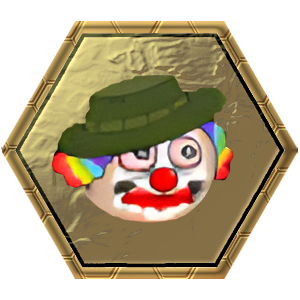
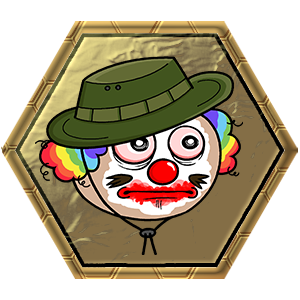
Added profile badge art crediting and linking. Thanks mofo <3

Changed region(s): [[0.12, 0.18, 0.81, 0.87]]

diff --git a/resources/views/livewire/modals/profile-badge.blade.php b/resources/views/livewire/modals/profile-badge.blade.php
@@ -1,15 +1,28 @@
 <div class="py-8 bg-skin-fill-wrapper dark:bg-skin-fill-wrapper-dark dark:text-white text-center">
     <div class="py-2 text-center">
-        <img class="mx-auto" src="{{ asset($badge->badge->image_big) }}" alt="{{ $badge->badge->name }}" title="{{ $badge->badge->name }}" />
+        <img class="mx-auto mb-1" src="{{ asset($badge->badge->image_big) }}" alt="{{ $badge->badge->name }}" title="{{ $badge->badge->name }}" />
+        @if($badge->badge->creator_name)
+            @if($badge->badge->creator_url)
+                <a href="{{ $badge->badge->creator_url }}" target="_blank">
+            @endif
+
+            <div class="text-amber-300 mb-2">
+                Art by: <div class="inline font-bold">{{ $badge->badge->creator_name }}</div>
+            </div>
+
+            @if($badge->badge->creator_url)
+                </a>
+            @endif
+        @endif
     </div>
     <div>
-        <div class="text-4xl font-bold">
+        <div class="text-6xl font-bold">
             {{ $badge->badge->name }}
         </div>
         <div class="mt-2 text-md">
             {{ $badge->badge->description }}
         </div>
-        <div class="mt-2 italics text-xs">
+        <div class="mt-4 italics text-xs">
             Badge achieved at: {{ date('Y-m-d H:i:s', $badge->achieved_at) }}
         </div>
     </div>

diff --git a/database/migrations/2024_04_01_175143_add_image_credits_column_to_badges.php b/database/migrations/2024_04_01_175143_add_image_credits_column_to_badges.php
@@ -1,0 +1,30 @@
+<?php
+
+use Illuminate\Database\Migrations\Migration;
+use Illuminate\Database\Schema\Blueprint;
+use Illuminate\Support\Facades\Schema;
+
+return new class extends Migration
+{
+    /**
+     * Run the migrations.
+     */
+    public function up(): void
+    {
+        Schema::table('badges', function (Blueprint $table) {
+            $table->string('creator_url')->after('image_big')->nullable();
+            $table->string('creator_name')->after('image_big')->nullable();
+            
+        });
+    }
+
+    /**
+     * Reverse the migrations.
+     */
+    public function down(): void
+    {
+        Schema::table('badges', function (Blueprint $table) {
+            //
+        });
+    }
+};
